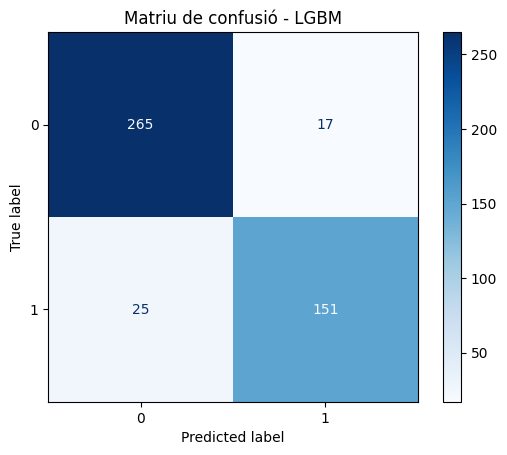
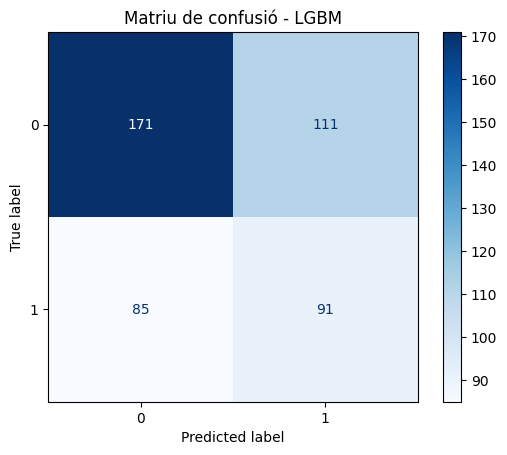
no-data-leakage

diff --git a/src/ai_health_assistant/utils/prep_helpers.py b/src/ai_health_assistant/utils/prep_helpers.py
@@ -19,7 +19,7 @@ def build_preprocessor(numeric_cols, categoric_cols):
     """
     numeric_pipe = Pipeline([
         ("imputer", KNNImputer(n_neighbors=5)),  # KNNImputer per capturar relacions
-        ("transformer", QuantileTransformer(output_distribution='normal', n_quantiles=1000)),  # QuantileTransformer per distribucions no normal      s
+        ("transformer", QuantileTransformer(output_distribution='normal', n_quantiles=1000)),  # QuantileTransformer per distribucions no normal
         ("scaler", RobustScaler()),  # RobustScaler per a outliers
     ])
 
@@ -75,48 +75,92 @@ def feature_engineering(df):
 
 
 ########################### PREPROCESSEM LES DADES ##################################
-def preprocess_dataframe(df, target, features):
-    """Rep un DataFrame ja net (df_cleaned), aplica transformacions i retorna un
-    nou DataFrame preparat (df_preprocessed).
+def preprocess_dataframe(df_train, df_test, target, features):
     """
-    # Selecció de columnes
-    df = df[features + [target]].copy()
-    df.dropna(subset=[target], inplace=True)
+    Preprocessa els conjunts d'entrenament i prova per separat per evitar data leakage.
+    
+    Args:
+        df_train: DataFrame d'entrenament
+        df_test: DataFrame de prova
+        target: Nom de la columna objectiu
+        features: Llista de característiques a utilitzar
+        
+    Returns:
+        Tupla amb (X_train_processed, X_test_processed, y_train, y_test, preprocessor)
+    """
+    # Assegurem que només utilitzem les columnes especificades
+    X_train = df_train[features].copy()
+    X_test = df_test[features].copy()
 
-    # Separació X/y
-    y = df[target]
-    X = df.drop(columns=[target])
-
-    categoric_cols = X.select_dtypes(exclude=['number']).columns
-    numeric_cols = X.select_dtypes(include=['number']).columns
-
+    y_train = df_train[target].copy()
+    y_test = df_test[target].copy()
+    
+    # Identifiquem columnes numèriques i categòriques
+    categoric_cols = X_train.select_dtypes(exclude=['number']).columns
+    numeric_cols = X_train.select_dtypes(include=['number']).columns
+    
+    # Construïm el preprocessador
     preprocessor = build_preprocessor(numeric_cols, categoric_cols)
-
-    X_proc = preprocessor.fit_transform(X)
+    
+    # Apliquem el preprocessament als conjunts d'entrenament i prova
+    X_train_processed = preprocessor.fit_transform(X_train)
+    X_test_processed = preprocessor.transform(X_test) # Fem nomes un transform pel test
+    
+    # Obtenim els noms de les característiques processades
     feature_names = preprocessor.get_feature_names_out()
-
-    X_proc_df = pd.DataFrame(X_proc, columns=feature_names, index=df.index)
-    df_final = pd.concat([X_proc_df, y], axis=1)
-    return df_final
+    
+    # Convertim a DataFrames
+    X_train_processed = pd.DataFrame(X_train_processed, columns=feature_names, index=X_train.index)
+    X_test_processed = pd.DataFrame(X_test_processed, columns=feature_names, index=X_test.index)
+    
+    return X_train_processed, X_test_processed, y_train, y_test, preprocessor
 
 
 
 ########################## FLUXE DEL PREPROCESSAMENT #############################
-def preprocess_data(input_path, output_path, target, features):
-    """Flux complet de preprocessament:
-    1. Llegeix el CSV (ja netejat).
-    2. Aplica transformacions i exporta CSV preprocessat.
-    3. Retorna el DataFrame resultant.
+def preprocess_data(train_path, test_path, output_dir, target, features):
     """
-
-    df = pd.read_csv(input_path)
-    df = feature_engineering(df)
-    df_final = preprocess_dataframe(df, target, features)
-
-    df_final.to_csv(output_path, index=False)
+    Flux complet de preprocessament per als conjunts d'entrenament i prova:
+    1. Llegeix els CSVs d'entrenament i prova
+    2. Aplica feature engineering a cada conjunt per separat
+    3. Preprocessa els conjunts evitant data leakage
+    4. Guarda els resultats i retorna els DataFrames processats
     
-    print(f"Dades preprocessades guardades a: {output_path}")
-
-    return df_final
+    Args:
+        train_path: Ruta al fitxer CSV d'entrenament
+        test_path: Ruta al fitxer CSV de prova
+        output_dir: Directori on es guardaran els resultats
+        target: Nom de la columna objectiu
+        features: Llista de característiques a utilitzar
+        
+    Returns:
+        Tupla amb (X_train, X_test, y_train, y_test, preprocessor)
+    """
+    
+    # Llegim les dades
+    train_df = pd.read_csv(train_path)
+    test_df = pd.read_csv(test_path)
+    
+    # Apliquem feature engineering per separat
+    train_df = feature_engineering(train_df)
+    test_df = feature_engineering(test_df)
+    
+    # Preprocessem les dades
+    X_train, X_test, y_train, y_test, preprocessor = preprocess_dataframe(
+        train_df, test_df, target, features
+    )
+    
+    # Guardem els resultats
+    train_processed = pd.concat([X_train, y_train], axis=1)
+    test_processed = pd.concat([X_test, y_test], axis=1)
+    
+    train_processed.to_csv(f"{output_dir}_train.csv", index=False)
+    test_processed.to_csv(f"{output_dir}_test.csv", index=False)
+    
+    print(f"Dades preprocessades guardades a {output_dir}")
+    print(f"  - Train: {output_dir}_train.csv")
+    print(f"  - Test:  {output_dir}_test.csv")
+    
+    return X_train, X_test, y_train, y_test, preprocessor
 
 

diff --git a/src/ai_health_assistant/02_training/training.py b/src/ai_health_assistant/02_training/training.py
@@ -32,19 +32,18 @@ warnings.filterwarnings('ignore')
 ################ Quan tinguem la bona forma de entrenar el model ##################
 
 
-# Load the dataset
-df = pd.read_csv('data/df_preprocessed.csv')
-
-# Comprovem quina es les estructura de les nostres dades faltants en el target
+train_df = pd.read_csv('data/preprocessed_train.csv')
+test_df = pd.read_csv('data/preprocessed_test.csv')
+    
+# Separar características y objetivo
 TARGET = 'TIRED'
+    
+X_train = train_df.drop(columns=[TARGET])
+y_train = train_df[TARGET]
+    
+X_test = test_df.drop(columns=[TARGET])
+y_test = test_df[TARGET]
 
-# Difinim X i el target y
-# Prediccio de TIRED
-X = df.drop(columns=[TARGET])
-y = df[TARGET]
-
-# Estratifiquem respecte un dels targets per tal d'assegurar el bon split
-X_train, X_test, y_train, y_test = train_test_split(X, y, test_size=0.2, random_state=42, stratify=y)
 
 # Definim el classifier i els parametres
 model_name = "LGBM" # RandomForest, GradientBoosting, MLP, SVM, BalancedRandomForest ...
@@ -105,6 +104,16 @@ results_df = append_results(
     best_score
 )
 
+mat_confusio(
+    model_name,
+    y_test,
+    y_test_pred,
+    save='yes'
+)
+
+X = pd.concat([X_train, X_test])
+y = pd.concat([y_train, y_test])
+
 plot_learning_curve(
     model_name,
     best_est,
@@ -113,12 +122,7 @@ plot_learning_curve(
     save='yes'
 )
 
-mat_confusio(
-    model_name,
-    y_test,
-    y_test_pred,
-    save='yes'
-)
+
 
 print(f"\n\nMillors parametrs pel model - {model_name}:\n")
 print(results_df[results_df['Model'] == model_name]['Best Params'].values[0])

diff --git a/src/ai_health_assistant/01_preprocessing/preprocess_data.py b/src/ai_health_assistant/01_preprocessing/preprocess_data.py
@@ -1,11 +1,12 @@
 from ai_health_assistant.utils.prep_helpers import preprocess_data
+from pathlib import Path
 
 '''
 Preprocessament de les dades:
-Un cop netejades les dades, les preprocessem, per preparar-les per l'entrenament del model.
-Les funcions de preprocessament son les definides als prep_helpers.py
-
-'''   
+Aquest script llegeix els conjunts d'entrenament i prova ja netejats,
+els preprocessa de forma separada per evitar data leakage, i els guarda
+en format preparat per a l'entrenament del model.
+'''
 
 # Features que volem utilitzar per fer la predicció
 FEATURES = [
@@ -53,12 +54,14 @@ FEATURES = [
 ] 
 
 
-df_prep = preprocess_data(
-    input_path="data/df_cleaned.csv",
-    output_path="data/df_preprocessed.csv",
-    target="TIRED",
-    features=FEATURES)
-
-print(df_prep.info())
-
-
+X_train, X_test, y_train, y_test, preprocessor = preprocess_data(
+    train_path='data/df_cleaned_train.csv',
+    test_path='data/df_cleaned_test.csv',
+    output_dir='data/preprocessed',
+    target='TIRED',
+    features=FEATURES
+)
+    
+print(f"- Mostres d'entrenament: {len(X_train)}")
+print(f"- Mostres de prova: {len(X_test)}")
+print(f"- Característiques: {X_train.shape[1]}")

diff --git a/src/ai_health_assistant/utils/clean_helpers.py b/src/ai_health_assistant/utils/clean_helpers.py
@@ -75,8 +75,8 @@ def handle_outliers(X_train, y_train, target):
                 Q1 = subset[col].quantile(0.25)
                 Q3 = subset[col].quantile(0.75)
                 IQR = Q3 - Q1
-                lower_bound = Q1 - 0 * IQR
-                upper_bound = Q3 + 0 * IQR
+                lower_bound = Q1 - 2 * IQR
+                upper_bound = Q3 + 2 * IQR
 
                 # Aplicar límits de forma específica per cada classe
                 X_train.loc[(y_train == label) & (X_train[col] < lower_bound), col] = lower_bound
